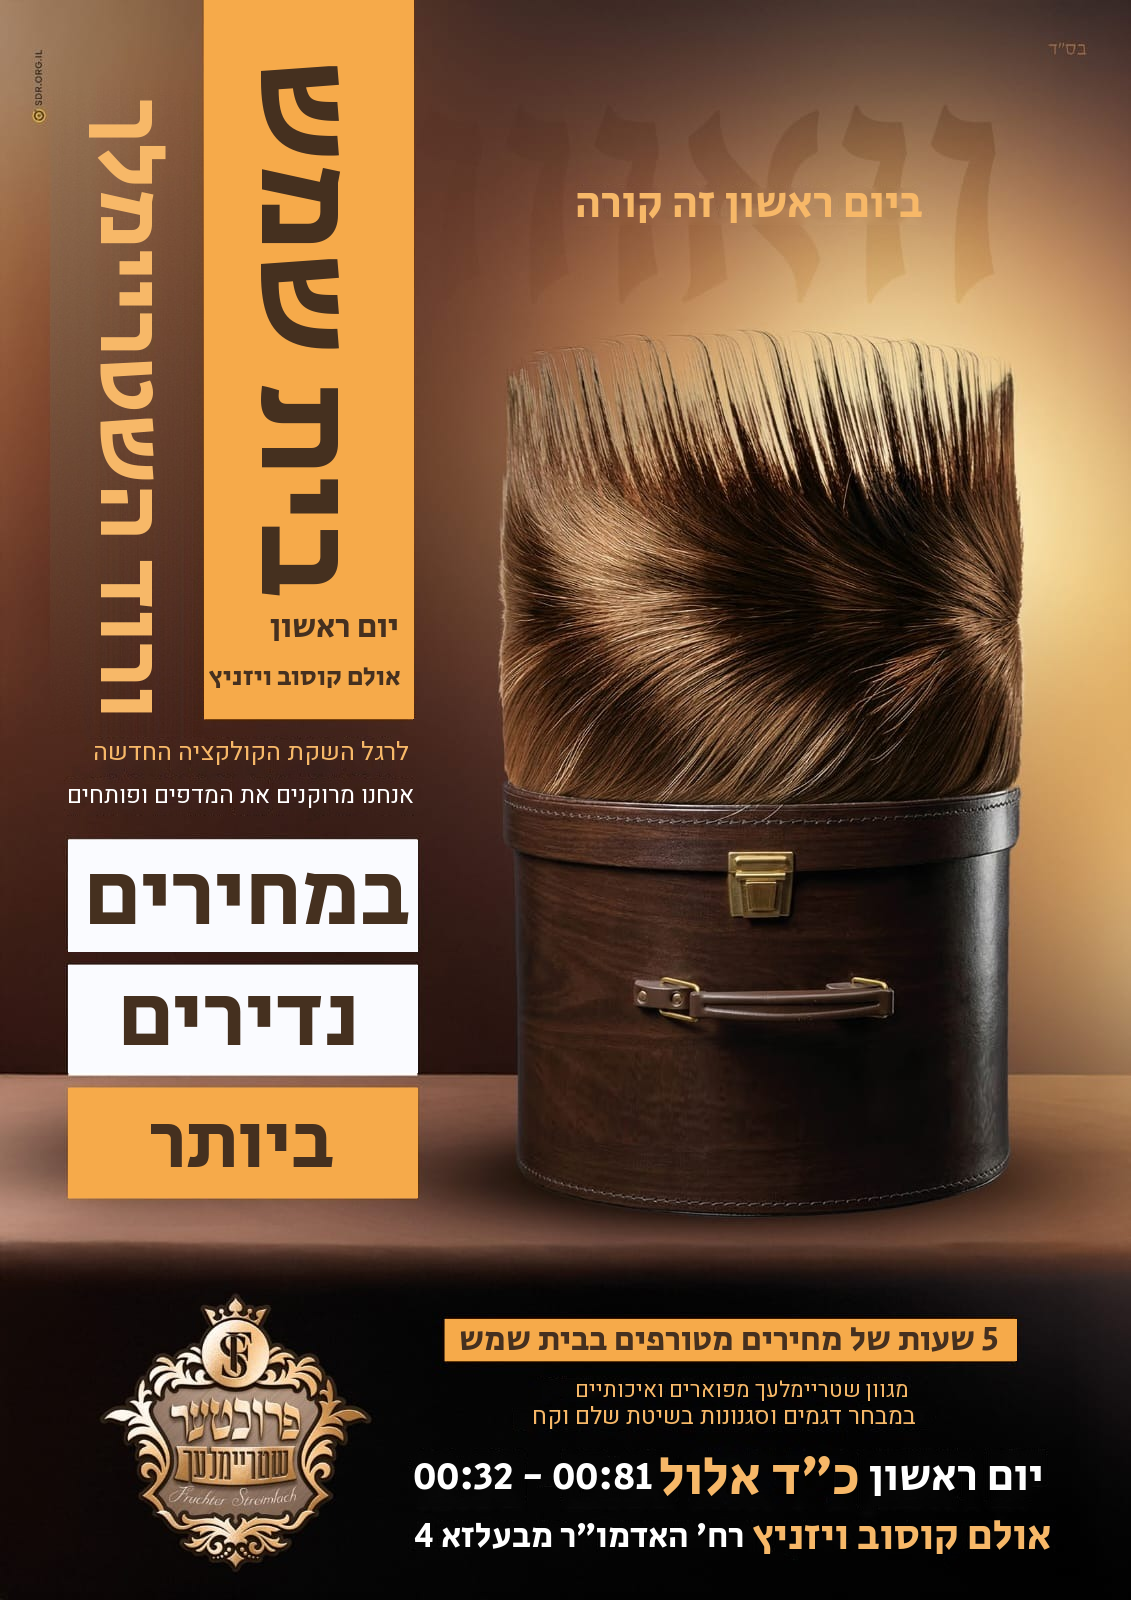
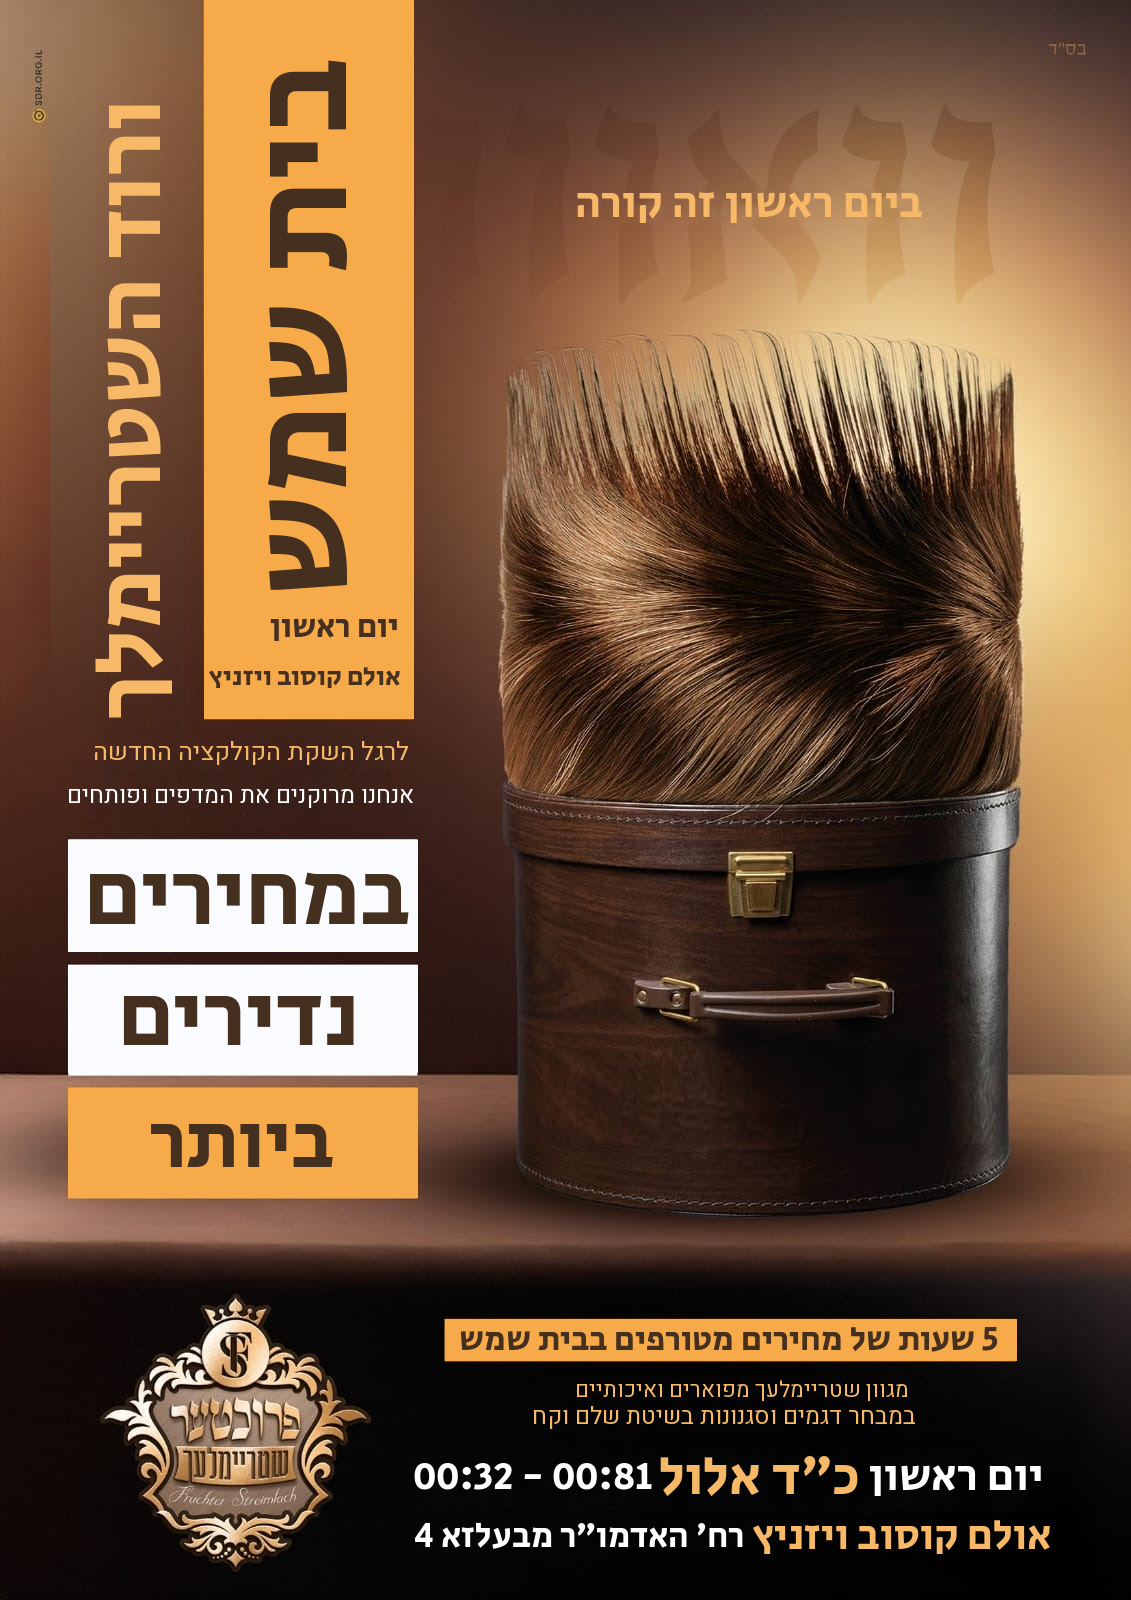
Ad import: fix vertical title direction, grow text boxes to the full line
- rotation -90 (reads top to bottom) for the streimel titles; the original
  ad reads that way, and 90 put the start of the text at the bottom
- tighten() now also extends a rough box along the line while more letters
  follow, so line ends outside the box are erased too (wedding invitation)
- erase the union of the rough and the tightened box

Changed region(s): [[0.2166, 0.0312, 0.3095, 0.375], [0.0619, 0.0625, 0.1547, 0.4688]]

diff --git a/examples/ad-import/adimport.py b/examples/ad-import/adimport.py
@@ -59,15 +59,35 @@ def ink(gray, box, t=22):
     return diff > t, diff
 
 
-def tighten(gray, box, pad=4):
-    """shrink a rough box to the text's actual ink"""
+def tighten(gray, box, pad=4, grow=80, gap=16):
+    """fit a rough box (horizontal text) to the text's actual ink: shrink it, and extend it along the
+    line while more letters follow (a gap wider than `gap` px, more than a word space, ends the line)"""
     x0, y0, x1, y1 = box
-    b = [max(0, x0 - pad), max(0, y0 - pad), min(gray.shape[1], x1 + pad), min(gray.shape[0], y1 + pad)]
+    W = gray.shape[1]
+    b = [max(0, x0 - pad), max(0, y0 - pad), min(W, x1 + pad), min(gray.shape[0], y1 + pad)]
     m, _ = ink(gray, b)
-    rows, cols = np.where(m.sum(1) >= 2)[0], np.where(m.sum(0) >= 2)[0]
-    if not len(rows) or not len(cols):
+    rows = np.where(m.sum(1) >= 2)[0]
+    if not len(rows):
         return box
-    return [b[0] + int(cols[0]), b[1] + int(rows[0]), b[0] + int(cols[-1]) + 1, b[1] + int(rows[-1]) + 1]
+    ty0, ty1 = b[1] + int(rows[0]), b[1] + int(rows[-1]) + 1
+    sx0, sx1 = max(0, x0 - grow), min(W, x1 + grow)
+    m, _ = ink(gray, (sx0, ty0, sx1, ty1))
+    on = m.sum(0) >= 2
+    inner = np.where(on[x0 - sx0:x1 - sx0])[0]
+    if not len(inner):
+        return box
+    lo, hi = x0 - sx0 + int(inner[0]), x0 - sx0 + int(inner[-1])
+    i = lo - 1
+    while i >= 0 and lo - i <= gap:  # walk left; any ink within `gap` px continues the line
+        if on[i]:
+            lo = i
+        i -= 1
+    i = hi + 1
+    while i < len(on) and i - hi <= gap:
+        if on[i]:
+            hi = i
+        i += 1
+    return [sx0 + lo, ty0, sx0 + hi + 1, ty1]
 
 
 def sample_color(img, gray, box):
@@ -92,7 +112,10 @@ def clean(img, gray, spec, boxes):
     """Erases text from the background. Text on a rect is left: the rect covers it in the editor."""
     regions = spec.get('erase')
     if regions is None:  # default: every text that is not on a solid box, with some margin
-        regions = [[b[0] - 8, b[1] - 8, b[2] + 8, b[3] + 8] for b in boxes
+        # union of the rough and the tightened box: faint letter edges can fall outside the tight one
+        both = [[min(a[0], b[0]), min(a[1], b[1]), max(a[2], b[2]), max(a[3], b[3])]
+                for a, b in zip((t['box'] for t in spec['texts']), boxes)]
+        regions = [[b[0] - 8, b[1] - 8, b[2] + 8, b[3] + 8] for b in both
                    if not any(inside(b, r['box']) for r in spec.get('rects', []))]
     mask = np.zeros(gray.shape, np.uint8)
     for x0, y0, x1, y1 in regions:
@@ -135,8 +158,11 @@ def to_canvas(spec, img, gray, boxes, bg_asset_id):
         box_w = along * 1.15 + 10             # slack so a slightly wider browser font never wraps
         box_h = fs_px * LINE
         cx, cy = (x0 + x1) / 2, (y0 + y1) / 2
-        if rot == 90:  # Konva rotates around the top-left corner: box runs down, its height goes left
+        # Konva rotates around the top-left corner
+        if rot == 90:     # reads bottom to top: the box runs down, its height goes left
             bx, by = cx + box_h / 2, cy - box_w / 2
+        elif rot == -90:  # reads top to bottom: the box runs up, its height goes right
+            bx, by = cx - box_h / 2, cy + box_w / 2
         else:
             bx, by = cx - box_w / 2, cy - box_h / 2
         color = t.get('color') or sample_color(img, gray, (x0, y0, x1, y1))
@@ -164,6 +190,9 @@ def preview(doc, background):
         if e['rotation'] == 90:
             layer = layer.rotate(-90, expand=True)
             im.paste(layer, (int(e['x_mm'] * k - h), int(e['y_mm'] * k)), layer)
+        elif e['rotation'] == -90:
+            layer = layer.rotate(90, expand=True)
+            im.paste(layer, (int(e['x_mm'] * k), int(e['y_mm'] * k - w)), layer)
         else:
             im.paste(layer, (int(e['x_mm'] * k), int(e['y_mm'] * k)), layer)
     return im
